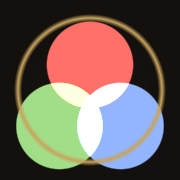
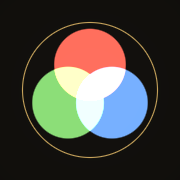
design: 三色图标重做——等边三角形对称布局(去中心遮挡)+替换左上角五角星为统一三色标识

diff --git a/index.html b/index.html
@@ -20,11 +20,13 @@
 <header class="topbar">
   <div class="brand">
     <svg class="emblem" viewBox="0 0 32 32" aria-hidden="true">
-      <circle cx="16" cy="16" r="12" fill="#1e1915" stroke="#c8a45c" stroke-width="1.6"/>
-      <g fill="none" stroke="#c8a45c" stroke-width="1.3">
-        <path d="M16 6l3.4 6.7 7.1.7-5.2 5.8 1.1 7.5-6.4-3.4-6.4 3.4 1.1-7.5-5.2-5.8 7.1-.7z"/>
+      <circle cx="16" cy="16" r="14" fill="#161310"/>
+      <circle cx="16" cy="16" r="12.2" fill="none" stroke="#c8a45c" stroke-width="0.7" opacity="0.6"/>
+      <g style="mix-blend-mode:screen">
+        <circle cx="16" cy="12.4" r="6.4" fill="#e05548"/>
+        <circle cx="11.9" cy="19.8" r="6.4" fill="#6db860"/>
+        <circle cx="20.1" cy="19.8" r="6.4" fill="#5a8fd8"/>
       </g>
-      <circle cx="16" cy="16" r="3.6" fill="#c8a45c"/>
     </svg>
     <div class="brand-text">
       <h1>3color</h1>

diff --git a/icons/gen_icons.py b/icons/gen_icons.py
@@ -1,5 +1,9 @@
 # -*- coding: utf-8 -*-
-"""Generate 3color PWA icons (pure stdlib PNG encoder, no deps)."""
+"""Generate 3color PWA icons (pure stdlib PNG encoder, no deps).
+
+   Layout v2 — symmetric equilateral triangle (centroid at canvas center).
+   Red top, green bottom-left, blue bottom-right. No center occlusion.
+"""
 import struct
 import zlib
 import math
@@ -30,27 +34,54 @@ def soft(dist, radius, aa=1.4):
     """Anti-aliased circle coverage in [0,1]."""
     return max(0.0, min(1.0, (radius - dist) / aa + 0.5))
 
-BG    = (20, 17, 14)
+BG    = (18, 16, 13)
 BRASS = (200, 164, 92)
-RED   = (217, 83, 79)
-GREEN = (124, 178, 106)
-BLUE  = (111, 143, 209)
+RED   = (224, 85, 72)
+GREEN = (109, 184, 96)
+BLUE  = (90, 143, 216)
+
+# 等边三角形参数（重心在画布中心）
+# 圆心距 d=125, 半径 r=102 → 重叠自然呈现加法混色
+# 三角形高 h = d * sqrt(3)/2 ≈ 108.3
+# 重心到顶点距离 = h * 2/3 ≈ 72.2
+# 顶点(红): (cx, cy - 72.2), 左下(绿): (cx - d/2, cy + 36.1), 右下(蓝): (cx + d/2, cy + 36.1)
 
 def build(size, maskable):
-    w = h = float(size)
+    w = float(size)
     c = w / 2.0
     maxr = math.hypot(c, c)
+
+    # 归一化坐标（相对于画布宽度的比例）
     if maskable:
-        circles = [(0.50, 0.40, 0.175, RED), (0.35, 0.67, 0.175, GREEN), (0.65, 0.67, 0.175, BLUE)]
+        # maskable 版：圆稍小、更紧凑，确保在安全区内
+        r_frac = 0.185          # radius / width
+        d_frac = 0.230          # center distance / width
+        h_frac = d_frac * math.sqrt(3) / 2
+        cy_off = h_frac * 2 / 3  # centroid to vertex
+        cx_off = d_frac / 2
+        circles = [
+            (0.50, 0.50 - cy_off, r_frac, RED),
+            (0.50 - cx_off, 0.50 + cy_off / 2, r_frac, GREEN),
+            (0.50 + cx_off, 0.50 + cy_off / 2, r_frac, BLUE),
+        ]
         ring = None
     else:
-        circles = [(0.50, 0.36, 0.24, RED), (0.33, 0.70, 0.24, GREEN), (0.67, 0.70, 0.24, BLUE)]
-        ring = (0.40, 0.022)  # radius + half stroke (fractions of w)
+        r_frac = 0.199
+        d_frac = 0.244
+        h_frac = d_frac * math.sqrt(3) / 2
+        cy_off = h_frac * 2 / 3
+        cx_off = d_frac / 2
+        circles = [
+            (0.50, 0.50 - cy_off, r_frac, RED),
+            (0.50 - cx_off, 0.50 + cy_off / 2, r_frac, GREEN),
+            (0.50 + cx_off, 0.50 + cy_off / 2, r_frac, BLUE),
+        ]
+        ring = (0.375, 0.006)  # brass ring: radius fraction + half-stroke fraction
 
     def pixel(x, y):
         fx, fy = x + 0.5, y + 0.5
         dist_c = math.hypot(fx - c, fy - c)
-        vig = 1.0 - 0.12 * (dist_c / maxr) ** 2
+        vig = 1.0 - 0.10 * (dist_c / maxr) ** 2
         r = BG[0] * vig
         g = BG[1] * vig
         b = BG[2] * vig
@@ -58,9 +89,9 @@ def build(size, maskable):
             d = math.hypot(fx - cx_ * w, fy - cy_ * w)
             co = soft(d, rad * w)
             if co > 0:
-                r += col[0] * co * 1.15
-                g += col[1] * co * 1.15
-                b += col[2] * co * 1.15
+                r += col[0] * co * 1.12
+                g += col[1] * co * 1.12
+                b += col[2] * co * 1.12
         if ring:
             rr, half = ring
             d = math.hypot(fx - c, fy - c)
